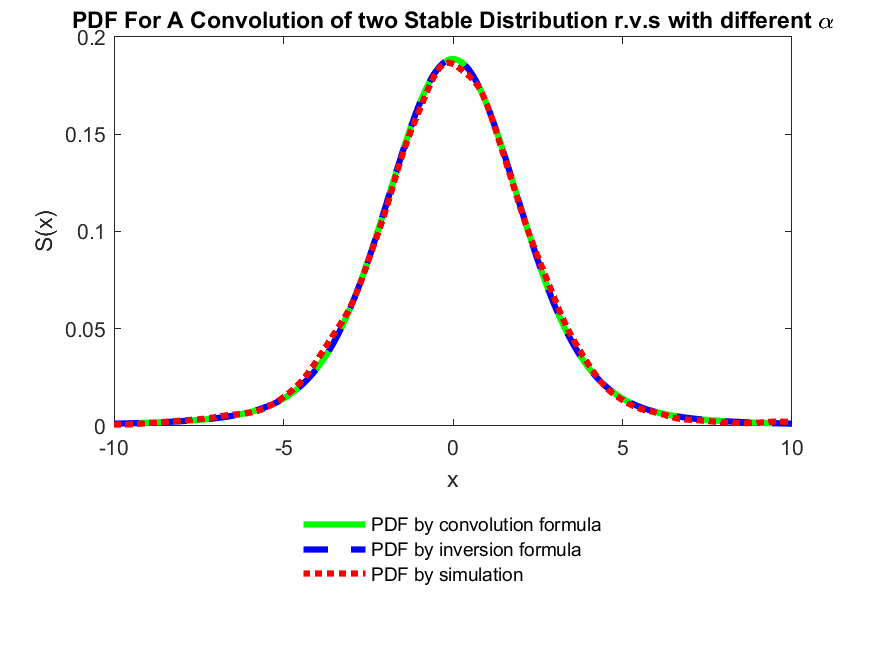
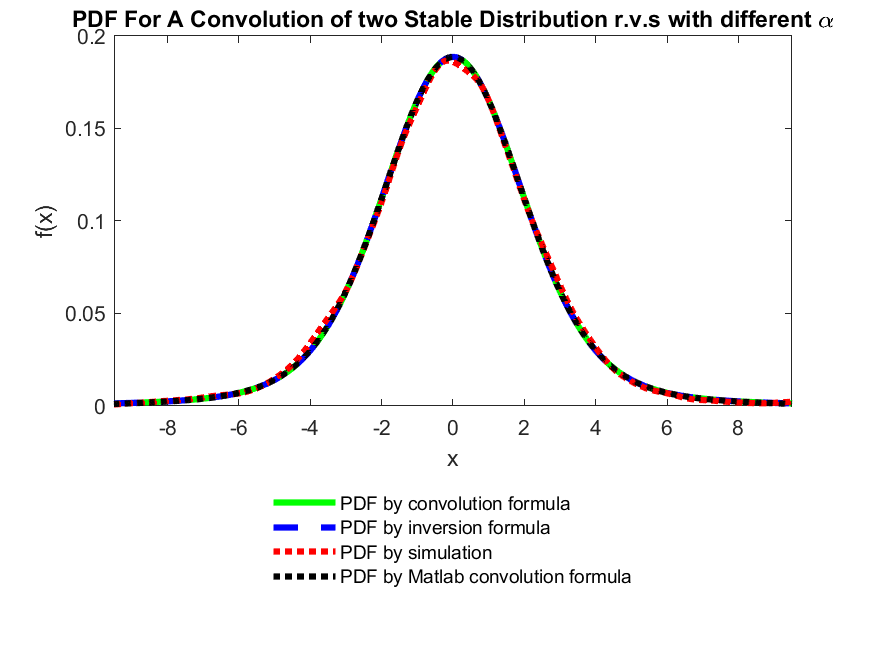
changes to ex3 + clean up

diff --git a/assignment1.m b/assignment1.m
@@ -3,11 +3,12 @@
 %%%%%%%%%%%%%%%%%%%%%%%%%%%%%%%%%%%%%%%%%%%%%%%%%%%%%%%%
 
 %% Question 1. compute pdf of the stable (first line: simulated density, second line: true density)
+% set parameters of the pdf
 a = 1.7; b = -0.4; c = 2; d = 0.3;
 n = 40000; xvec = -20:.001:20;
 
 %%% kernel density estimate %%%
-% generate a random sample of size n from the S_{a,b}(d, c) distribution
+% generate a random sample of size n from the S_{a,b}(c, d) distribution
 % and plot the resulting density
 randstab = stabgen(n, a, b, c, d, 2);
 [f,x] = ksdensity(randstab, xvec);
@@ -15,28 +16,28 @@ figure, plot(x, f, 'g-', 'linewidth', 3)
 xlim([-20 20])
 
 %%% true density %%%
-% calculate the actual theoretical values of a S_{a,b} distribution
+% calculate the actual theoretical values of a S_{a,b}(c, d) distribution
 theostab = asymstabplus(xvec, a, b, c, d);
 hold on, plot(xvec, theostab, 'b--', 'linewidth', 3), hold off
 
-%pdfmatlab = makedist("Stable","alpha",a,"beta",b,"gam",c,"delta",d);
-%theostab1 = pdf(pdfmatlab, xvec);
-%hold on, plot(xvec, theostab1, 'c-', 'linewidth', 2), hold off
-
-% prettyfy the plot
+% prettyfy the plot by adding a legend, title, labels, etc
 legend('Simulated PDF', ...
        'Theoretical PDF', ...
        'Location', 'southoutside', 'Orientation', 'vertical', 'Box', 'off');
 title('PDFs For Stable Distribution')
-xlabel("x"); ylabel("S_{1.7, -0.4}(2, 0.3)(x)")
+xlabel("x"); ylabel("f(x)")
 set(gca, 'fontsize', 10)
+
+% save plot as .png file
 saveas(gcf, 'assignment1_ex1.png')
 
 %% Question 2. convolution of two independent stable random variables
+% set parameters of the pdf
 a = 1.7; b1 = -0.4; b2 = 1; c1 = 2; c2 = 1; d1 = -0.5; d2 = -0.3;
 n = 40000; xvec = -20:.001:20;
 
-% by slide 535 in the lecture notes:
+% calculate the parameters of the stable r.v. that is given by the sum of two stable r.v.s
+% (slide 535 in the lecture notes)
 b_conv = (b1 * c1^a + b2 * c2^a)/(c1^a + c2^a); c_conv = (c1^a + c2^a)^(1/a); d_conv = d1 + d2;
 
 %%% kernel density estimate %%%
@@ -46,105 +47,128 @@ randstab_conv = stabgen(n, a, b_conv, c_conv, d_conv, 2);
 [f_conv,x_conv] = ksdensity(randstab_conv, xvec);
 figure, plot(x_conv, f_conv, 'g-', 'linewidth', 3)
 xlim([-20 20])
-%[f_conv,x_conv] = ksdensity(randstab_conv,xvec);
-%plot(x_conv, f_conv, 'g-', 'linewidth', 2)
 
 %%% true density %%%
 % calculate the actual theoretical values of a S_{a, b}(c, d) distribution
 theostab_conv = asymstabplus(xvec, a, b_conv, c_conv, d_conv);
 hold on, plot(xvec, theostab_conv, 'b--', 'linewidth', 2), hold off
-%theostab = asymstabplus(xvec, a, b_conv, c_conv, d_conv);
-%hold on, plot(xvec, theostab, 'b--', 'linewidth', 2), hold off
 
-% prettyfy the plot
+% prettyfy the plot by adding a legend, title, labels, etc
 legend('Simulated PDF', ...
        'Theoretical PDF', 'Location', 'NorthWest', 'Orientation', 'vertical', 'Box', 'off')
 title('PDF For A Convolution of two Stable Distribution r.v.s')
-xlabel("x"); ylabel("S(x)")
+xlabel("x"); ylabel("f(x)")
 set(gca, 'fontsize', 10)
+
+% save plot as .png file
 saveas(gca, 'assignment1_ex2.png')
 
 %% Question 3. convolution of two independent stable random variables with different tail index alpha
-% alpha is given as alpha1 = a1 = 1.6 and alpha2 = a2 = 1.8
-% beta, scale and location are the same for both, i.e.
-% beta=b=b1=b2=0 
-% scale=c=c1=c2=1
-% location=d=d1=d2=0
-a1 = 1.6; a2 = 1.8;
-a1 = 1.5; a2 = 1.9;
+% set parameters of the pdf
+% scale=c, location=d
+%a1 = 1.6; a2 = 1.8;
+a1 = 1.5; a2 = 1.9; % alphas for the second run
 b = 0; c = 1; d = 0;
-n = 4*1e2; xvec = -10:0.05:10;
-svec=-10:0.05:10;
+n = 4*1e2; xvec = -10:0.05:10; svec=-10:0.05:10;
 
-% now there are three different ways of computing the pdf for the
-% convolution
 
-% #1 Simple integration formula called the convolution formula, that I 
-% showed you in class, along with formulae for difference, product, and
-% quotient, remember? You program the integral convolution formula 
-% (obviously, you need to be able to execute numeric integration), and 
-% generate a plot of the resulting density (over, say, 400 points, or 
-% however many you can do, i.e., maybe it takes too long, and you only do
-% 100 points --- be smart, and understand what we are doing here.)
+%%% by simple integration formula: the convolution formula %%%
+% slide "Asymmetric Stable: P.D.F. Calculation" (s. 553f)
 f = convopdf(svec,a1,a2);
 figure, plot(svec, f, 'g-', 'linewidth', 3)
-%see slide "Asymmetric Stable: P.D.F. Calculation" (s. 553)
+xlim([-9.5 9.5])
 
-% #2 Next, you compute the pdf by using the inversion formula applied to 
-% the characteristic function of the sum of X1 and X2, which is, remember,
-% the product of the two characteristic functions. Do it, plot it. Overlay
-% the two lines. They should be nearly identical.
+%%% by the inversion formula applied to the characteristic function %%%
 theostab_conv_ex3_2 = asymstabplus_ex3_2(xvec, a1, a2);
 hold on, plot(xvec, theostab_conv_ex3_2, 'b--', 'linewidth', 3), hold off
 
-% #3 Add a third line to your graphic, based on simulation and kernel 
-% density.
-b=0;c=1;d=0;n=10000;
+
+%%% kernel density estimate %%%
+n=10000;
+
+% simulate a random sample of size n with different seeds to avoid
+% correlation
 randstab_conv_a1 = stabgen(n, a1, b, c, d, 5);
 randstab_conv_a2 = stabgen(n, a2, b, c, d, 7585);
+% add (convolute) the two random samples
 randstab_conv_s = randstab_conv_a1 + randstab_conv_a2;
+% apply the kernel density smoother in order to be able to plot the density
 [f_conv_a, x_conv_a] = ksdensity(randstab_conv_s,svec);
 hold on, plot(x_conv_a, f_conv_a, 'r:', 'linewidth', 3), hold off
 
-% Obviously, lavishly annotate your graphic with titles, x and y labels,
-% a legend, make the x and y numbers on the axis be big enough (use in
-% Matlab set(gca,'fontsize',16)), etc. Use nice clear colors for each of
-% the 3 lines of your graphic, say red, green, blue, or whatever you like
-% (yellow is usually a bad choice), and also:
 
-
-% #4 So, for question 3, please now do FOUR methods. 
-% All 3 we have already in the assignment, plus using the "conv" function in Matlab. 
-% Note that using conv is massively faster than my old-school way of doing things, 
-% so it will run super fast, and should deliver very accurate results. 
-% I realize that my old-school way based literally on the integral convolution formula is slow, 
-% and part of the reason is that it is using a generic numeric integration routine and 
-% requires calling your codes for the evaluation of the stable density, which is slow. 
-% Doing it with the "conv" function will be faster because it is a simple explicit form of numeric integration,
-% and also you pass it simply two long vectors of pdf values.
-% Your job is to figure out how to use the function and make it work. Notice this is a very powerful and useful tool to know about!
-
+%%% using the "conv" function in Matlab %%%
 xvec = -10:.01:10;
 
-% generate pdfs
+% generate pdfs for the two alphas
 s1 = asymstab_generalized(xvec, a1, b, c, d);
 s2 = asymstab_generalized(xvec, a2, b, c, d);
 
 % calculate the convolution
-sconv = conv(s1, s2, 'same')/10;
+sconv = conv(s1, s2, 'same')/100;
 
 % plot
-hold on, plot(xvec', sconv, 'k:', 'LineWidth', 3), holf off
-%&&&&&&&&&&&&&&&&&&&&&&&&&&&&&&&&&&&&&&&&&&&&&&&&&&&&&&&&&&&&&&&&&&
+hold on, plot(xvec', sconv, 'k:', 'LineWidth', 3), hold off
+
+% prettyfy the plot by adding a legend, title, labels, etc
 legend('PDF by convolution formula', ...
        'PDF by inversion formula', ...
        'PDF by simulation', ...
        'PDF by Matlab convolution formula', ...
        'Location', 'southoutside', 'Orientation', 'vertical', 'Box', 'off')
 title('PDF For A Convolution of two Stable Distribution r.v.s with different \alpha')
-xlabel("x"); ylabel("S(x)")
+xlabel("x"); ylabel("f(x)")
 set(gca, 'fontsize', 10)
-%saveas(gca, 'assignment1_ex3_2.png')
+
+% save plot as .png file
+if a1 == 1.6
+    saveas(gca, 'assignment1_ex3.png')
+else
+    saveas(gca, 'assignment1_ex3_diffa.png')
+end
+
+
+%% Question 3. convolution of THREE independent stable random variables with different tail index alpha
+
+a1 = 1.6; a2 = 1.8; a3 = 1.9;
+b = 0; c = 1; d = 0;
+xvec = -16:.01:16; n=1e6; svec=-16:0.05:16;
+
+%%% kernel density estimate %%%
+randstab_conv_a1 = stabgen(n, a1, b, c, d, 5);
+randstab_conv_a2 = stabgen(n, a2, b, c, d, 7585);
+randstab_conv_a3 = stabgen(n, a3, b, c, d, 125);
+% add (convolute) the three random samples
+randstab_conv_s = randstab_conv_a1 + randstab_conv_a2 + randstab_conv_a3;
+% apply the kernel density smoother in order to be able to plot the density
+[f_conv_a, x_conv_a] = ksdensity(randstab_conv_s,svec);
+figure, plot(x_conv_a, f_conv_a, 'g-', 'linewidth', 3)
+xlim([-15 15])
+
+%%% using the "conv" function in Matlab %%%
+
+% generate pdfs for the three alphas
+s1 = asymstab_generalized(xvec, a1, b, c, d);
+s2 = asymstab_generalized(xvec, a2, b, c, d);
+s3 = asymstab_generalized(xvec, a3, b, c, d);
+
+% calculate the convolution
+sconv = conv(s3, conv(s1, s2, 'same')/100, 'same')/100;
+
+% plot
+hold on, plot(xvec', sconv, 'b--', 'LineWidth', 3), hold off
+
+% prettyfy the plot by adding a legend, title, labels, etc
+legend('PDF by simulation', ...
+       'PDF by Matlab convolution formula', ...
+       'Location', 'southoutside', 'Orientation', 'vertical', 'Box', 'off')
+title('PDF For A Convolution of three Stable Distribution r.v.s with different \alpha')
+xlabel("x"); ylabel("f(x)")
+set(gca, 'fontsize', 10)
+
+% save plot as .png file
+saveas(gca, 'assignment1_ex3_3rvs.png')
+
 
 %% Question 4
 a = 1.7; b = 0; c = 0; d = 1; xi = 0.01;
@@ -153,7 +177,6 @@ a = 1.7; b = 0; c = 0; d = 1; xi = 0.01;
 [ES_stoy, VaR] = asymstableES(xi, a, b, c, d,1);
 X = ['ES via Stoyanov et al: ', num2str(ES_stoy)]; 
 disp(X);
-
 
 % Simulation (Book p. 445)
 nobs = 10^6;
